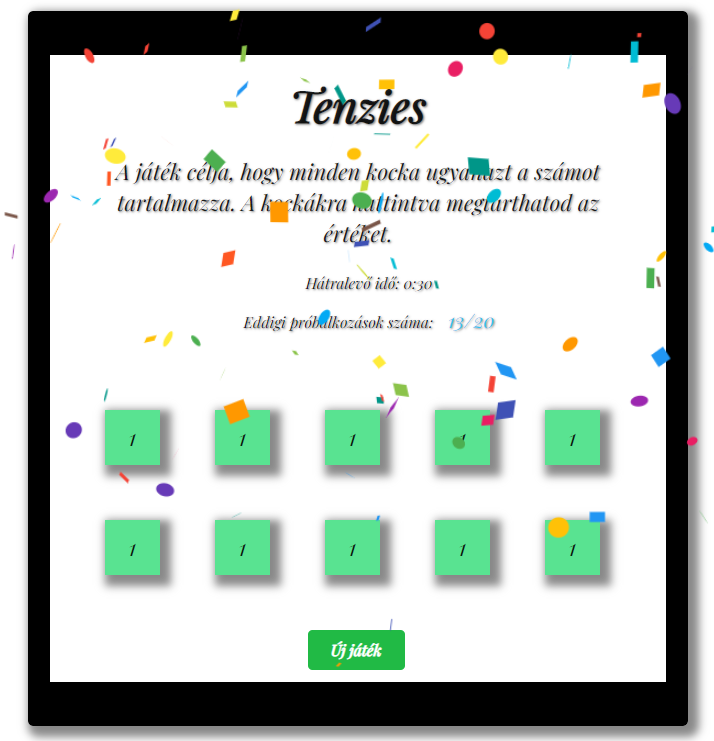
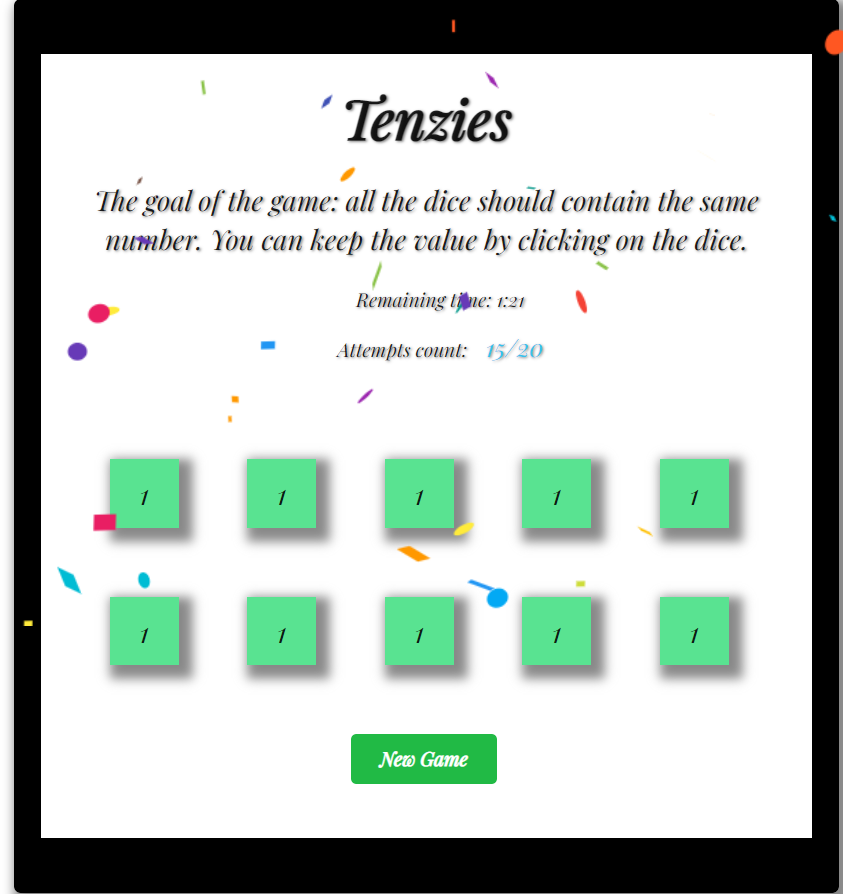
Projects description

diff --git a/src/routes/home/components/Projects/Projects.component.tsx b/src/routes/home/components/Projects/Projects.component.tsx
@@ -13,12 +13,15 @@ const Navigation = (language: LanguageModel) => {
   return (
     <Container id="projects" className="projects-container">
       {language.code === "en" ? <h1>My Recently Projets</h1> : <h1>Projektjeim</h1>}
+      {language.code === "en" ? <p>The projects are only available in English currently.</p> : <p>A projektek egyelőre csak angol nyelven elérhetőek</p>}
       <hr/>
       <div className="navigation-container">
         <div className="project">
             <Image className="image" src={circleimage} />
             <div className="project_description">
               {language.code === "en" ? <h5 className="title">CircleDrawer App</h5> : <h5 className="title">Kör rajzolós app</h5>}
+              {language.code === "en" ? <p>Little practising project.</p> : <p>Kis gyakorló projekt.</p>}
+              <p>Stack: HTML, SCSS, React, Typescript.</p> 
               <Link className="nav-link" to="circledrawer"><button className="button1 ui primary button mini"><i className="angellist icon"></i>Live Demo</button></Link>
               <a href="https://github.com/adamaclp92/ReactLearning/tree/main/practice-projects2/src/projects/circle-drawer" target="_blank"><button className="button2 ui secondary mini button"><i className="github icon"></i>View Source</button></a>
             </div>
@@ -29,6 +32,8 @@ const Navigation = (language: LanguageModel) => {
             <Image className="image" src={colorchooser} />
             <div className="project_description">
             {language.code === "en" ? <h5 className="title">Color Finder App</h5> : <h5 className="title">Szín kitaláló app</h5>}
+            {language.code === "en" ? <p>Another little practising project.</p> : <p>Mégegy kis gyakorló projekt.</p>}
+              <p>Stack: HTML, SCSS, React, Typescript.</p> 
               <Link className="nav-link" to="colorchooser"><button className="button1 ui primary button mini"><i className="angellist icon"></i>Live Demo</button></Link>
               <a href="https://github.com/adamaclp92/ReactLearning/tree/main/practice-projects2/src/projects/color-chooser" target="_blank"><button className="button2 ui secondary mini button"><i className="github icon"></i>View Source</button></a>
             </div>
@@ -39,6 +44,8 @@ const Navigation = (language: LanguageModel) => {
             <Image className="image" src={synonymapi} />
             <div className="project_description">
             {language.code === "en" ? <h5 className="title">Synonym API</h5> : <h5 className="title">Szinoníma API</h5>}
+            {language.code === "en" ? <p>Another little practising project.</p> : <p>Mégegy kis gyakorló projekt.</p>}
+              <p>Stack: HTML, SCSS, React, Typescript.</p> 
               <Link className="nav-link" to="synonymapi"><button className="button1 ui primary button mini"><i className="angellist icon"></i>Live Demo</button></Link>
               <a href="https://github.com/adamaclp92/ReactLearning/tree/main/practice-projects2/src/projects/synonym-api" target="_blank"><button className="button2 ui secondary mini button"><i className="github icon"></i>View Source</button></a>
             </div>
@@ -49,6 +56,8 @@ const Navigation = (language: LanguageModel) => {
             <Image className="image" src={tenzies} />
             <div className="project_description">
             {language.code === "en" ? <h5 className="title">Tenzies</h5> : <h5 className="title">Tenzies</h5>}
+            {language.code === "en" ? <p>First major project.</p> : <p>Első nagyobb projekt.</p>}
+              <p>Stack: HTML, CSS, React.</p> 
               <Link className="nav-link" to="tenzies"><button className="button1 ui primary button mini"><i className="angellist icon"></i>Live Demo</button></Link>
               <a href="https://github.com/adamaclp92/ReactLearning/tree/main/my-app11%20-%20Tenzies" target="_blank"><button className="button2 ui secondary mini button"><i className="github icon"></i>View Source</button></a>
             </div>
@@ -59,6 +68,8 @@ const Navigation = (language: LanguageModel) => {
             <Image className="image" src={tenzies} />
             <div className="project_description">
             {language.code === "en" ? <h5 className="title">Food order app</h5> : <h5 className="title">Étel rendelős app</h5>}
+            {language.code === "en" ? <p>Second major project.</p> : <p>Második nagyobb projekt.</p>}
+              <p>Stack: HTML, CSS, React.</p> 
               <Link className="nav-link" to="foodorder"><button className="button1 ui primary button mini"><i className="angellist icon"></i>Live Demo</button></Link>
               <a href="https://github.com/adamaclp92/ReactLearning/tree/main/my-app17%20-%20FoodOrderApp" target="_blank"><button className="button2 ui secondary mini button"><i className="github icon"></i>View Source</button></a>
             </div>

diff --git a/src/projects/tenzies/tenzies.js b/src/projects/tenzies/tenzies.js
@@ -81,7 +81,7 @@ export default function App(){
     }, [tryingCount])
 
     function losingTheGame(){
-        alert("Vesztettél")
+        alert("You losed!")
         window.location.reload(false);
     }
 
@@ -145,11 +145,10 @@ export default function App(){
             <main className='tenzies_main'>
             {tenzies && <Confetti/>}
                 <h1 className="tenzies_title">Tenzies</h1>
-                <p className='tenzies_instructions'>A játék célja, hogy minden kocka ugyanazt a számot tartalmazza. 
-                A kockákra kattintva megtarthatod az értéket.</p>
-                <p className='tenzies_trying'>Hátralevő idő: <span className='countDown'>{`${minutes}:${seconds < 10 ? '0' : ''}${seconds}`}</span></p>
+                <p className='tenzies_instructions'>The goal of the game: all the dice should contain the same number. You can keep the value by clicking on the dice.</p>
+                <p className='tenzies_trying'>Remaining time: <span className='countDown'>{`${minutes}:${seconds < 10 ? '0' : ''}${seconds}`}</span></p>
                 
-                <p className='tenzies_trying'>Eddigi próbálkozások száma: <span className='tenzies_trying-count'>{tryingCount}/20</span></p>
+                <p className='tenzies_trying'>Attempts count: <span className='tenzies_trying-count'>{tryingCount}/20</span></p>
                 <div className='tenzies_contain'>
                     <div className='tenzies_row'>
                         {diceElements}
@@ -158,7 +157,7 @@ export default function App(){
                         <button 
                         className='ui button green tenzies_roll-button'
                         onClick={toggleNewGameButton}>
-                        Új játék
+                        New Game
                         </button>
                         :
                     <button 
